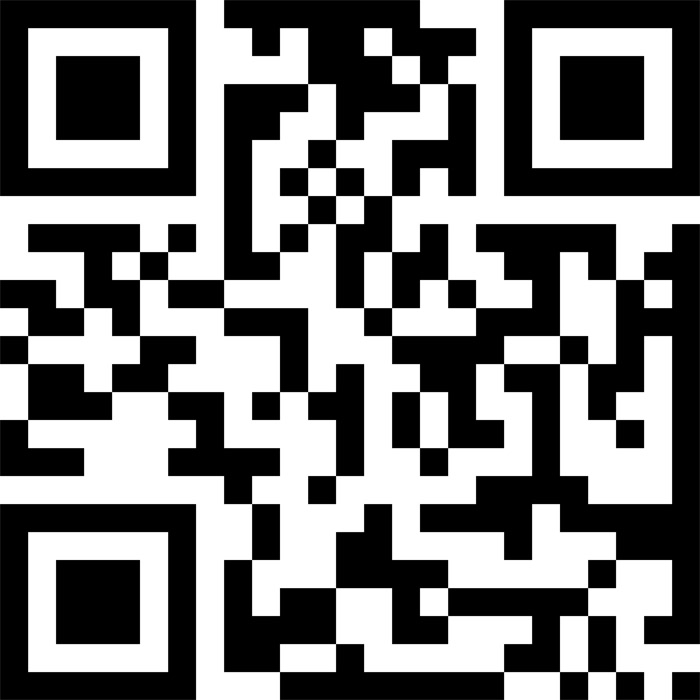
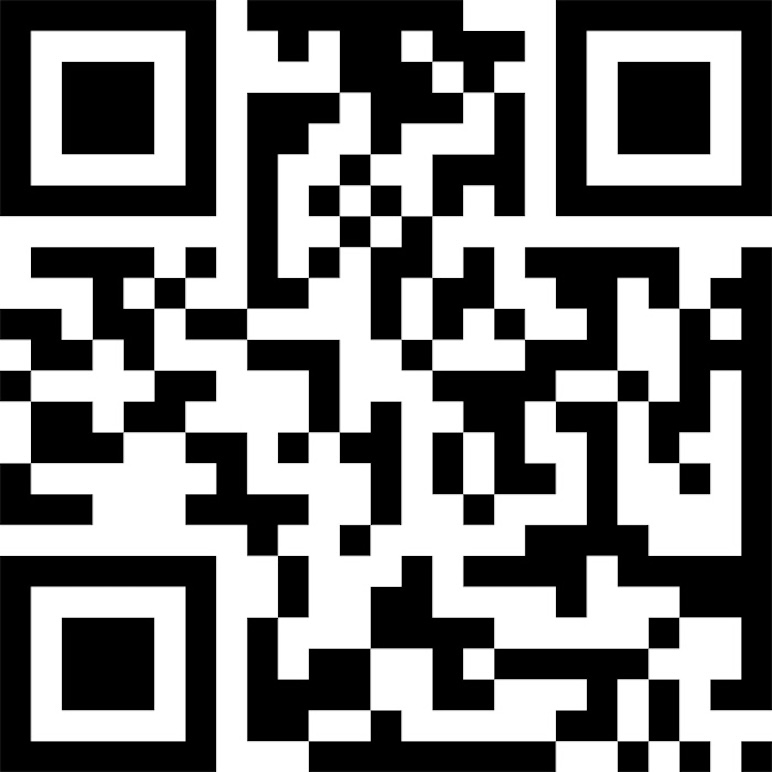
コミット名

diff --git a/index.html b/index.html
@@ -13,16 +13,16 @@
 
 <script src="https://code.jquery.com/jquery-3.5.1.min.js" integrity="sha256-9/aliU8dGd2tb6OSsuzixeV4y/faTqgFtohetphbbj0=" crossorigin="anonymous"></script>
 
-<title>MERAY（ミレイ）セレクタブルビューティーブランドindex</title>
+<title>SKIN CARE</title>
 </head>
   <body>
 <div class="aside-logo">
-  <img src="https://system.meray.tokyo/images/common/logo.svg" alt="MERAY">
+  <img src="https://system.meray.tokyo/images/common/logo.svg" alt="SKIN CARE">
 </div>
 <div class="aside-qrcode">
   <div class="">
-    <img src="https://system.meray.tokyo/images/common/qrcode.png" alt="QRコード">
-    <p>MERAYのWEBサイトは<br>スマートフォンでの利用を推奨しています。</p>
+    <img src="assets/images/publicdomainq-0004311kvg.jpeg" alt="QRコード">
+    <p>SKIN CAREのWEBサイトは<br>スマートフォンでの利用を推奨しています。</p>
   </div>
 </div>
   <div class="wrapper">
@@ -111,7 +111,7 @@
 </div>
     <header class="themes-header">
       <a href="/" class="logo-original themes-logo-icon">
-        <img src="https://system.meray.tokyo/images/common/logo.svg" alt="" class="">
+        <img src="assets/images/sukincare-bu08.png" alt="" class="">
       </a>
       <div class="wrap-themes-icon-right">
         <a href="/account" class="logo-original themes-mypage-icon">
@@ -157,8 +157,8 @@
 <div id="top-loading"></div>
 <article class="index is-first">
   <div class="index-mainvisual js-scroll-trigger">
-    <div class="mainvisual-image"><img src="https://system.meray.tokyo/images/index/mainvisual.webp" alt="" width="1500" height="1900" loading="lazy"></div>
-    <div class="mainvisual-title"><img src="https://system.meray.tokyo/images/index/title.svg" alt="MERAY" loading="lazy"></div>
+    <div class="mainvisual-image"><img src="assets/images/viktor-hesse-E9Y2EQLu8fI-unsplash.jpg" alt="" width="1500" height="1900" loading="lazy"></div>
+    <div class="mainvisual-title"><img src="assets/images/sukincare-bu08.png" alt="MERAY" loading="lazy"></div>
   </div>
   <div class="about-concept-catch is-bold js-scroll-trigger">
     <div class="catch-item anim-slide-in">
@@ -181,7 +181,7 @@
     <div class="section-body">
       <div class="product-item product-item-large product-recommended js-scroll-trigger animate-fade-in">
         <a href="/pages/product-select">
-          <div class="item-thumbnail"><img src="https://system.meray.tokyo/images/index/products_selectablekit.webp" alt="" loading="lazy"></div>
+          <div class="item-thumbnail"><img src="assets/images/pmv-chamara-OXYOFT9gTOE-unsplash.jpg" alt="" loading="lazy"></div>
           <div class="item-caption">
             <div class="caption-en">Selectable Kit / Cleansing</div>
             <div class="caption-ja">セレクタブルキット / クレンジング</div>
@@ -191,7 +191,7 @@
       <div class="product-items">
         <div class="product-item js-scroll-trigger animate-fade-in">
           <a href="/pages/product-oil">
-            <div class="item-thumbnail"><img src="https://system.meray.tokyo/images/index/products_oil.webp" alt="" loading="lazy"></div>
+            <div class="item-thumbnail"><img src="assets/images/viva-luna-studios-KiQt6CC0BvY-unsplash.jpg" alt="" loading="lazy"></div>
             <div class="item-caption">
               <div class="caption-en">Moist Cleansing Oil</div>
               <div class="caption-ja">モイスト クレンジング オイル</div>
@@ -200,7 +200,7 @@
         </div>
         <div class="product-item js-scroll-trigger animate-fade-in">
           <a href="/pages/product-butter">
-            <div class="item-thumbnail"><img src="https://system.meray.tokyo/images/index/products_butter.webp" alt="" loading="lazy"></div>
+            <div class="item-thumbnail"><img src="assets/images/birgith-roosipuu-7m9mA2qljog-unsplash.jpg" alt="" loading="lazy"></div>
             <div class="item-caption">
               <div class="caption-en">Melting Cleansing Butter</div>
               <div class="caption-ja">メルティング クレンジング バター</div>
@@ -209,7 +209,7 @@
         </div>
         <div class="product-item js-scroll-trigger animate-fade-in">
           <a href="/pages/product-milk">
-            <div class="item-thumbnail"><img src="https://system.meray.tokyo/images/index/products_milk.webp" alt="" loading="lazy"></div>
+            <div class="item-thumbnail"><img src="assets/images/pmv-chamara-sCFL6R7loQk-unsplash.jpg" alt="" loading="lazy"></div>
             <div class="item-caption">
               <div class="caption-en">Rich Cleansing Milk</div>
               <div class="caption-ja">リッチ クレンジング ミルク</div>
@@ -218,7 +218,7 @@
         </div>
         <div class="product-item js-scroll-trigger animate-fade-in">
           <a href="/pages/product-gel">
-            <div class="item-thumbnail"><img src="https://system.meray.tokyo/images/index/products_gel.webp" alt="" loading="lazy"></div>
+            <div class="item-thumbnail"><img src="assets/images/lumin-1mp7rF7_j2I-unsplash.jpg" alt="" loading="lazy"></div>
             <div class="item-caption">
               <div class="caption-en">Clear Cleansing Gel</div>
               <div class="caption-ja">クリア クレンジング ジェル</div>
@@ -230,7 +230,7 @@
   </section>
   <section class="index-selectable">
     <div class="selectable-visual js-scroll-trigger">
-      <div class="visual-image"><img src="https://system.meray.tokyo/images/index/selectable_visual.webp" alt="" width="1500" height="1900" loading="lazy"></div>
+      <div class="visual-image"><img src="assets/images/jeffery-erhunse-Z9lbmEjyYjU-unsplash.jpg" alt="" width="1500" height="1900" loading="lazy"></div>
       <div class="visual-catch"><img src="https://system.meray.tokyo/images/index/selectable_catch.svg" alt="Select your favorite!!" loading="lazy"></div>
     </div>
     <div class="selectable-title is-bold js-scroll-trigger animate-fade-in">４種類から試して選ぶ<br> セレクタブルクレンジング</div>
@@ -252,7 +252,7 @@
       <div class="reading-item">
         <a href="/blogs/journal/journal004">
           <div class="item-thumbnail js-scroll-trigger anim-slide-in">
-            <span><img src="https://system.meray.tokyo/images//journal/journal004_01.webp" data-src="https://system.meray.tokyo/images//journal/journal004_01.webp" alt="" loading="lazy"></span>
+            <span><img src="assets/images/valeriia-miller-_42NKYROG7g-unsplash.jpg" data-src="https://system.meray.tokyo/images//journal/journal004_01.webp" alt="" loading="lazy"></span>
           </div>
           <div class="item-caption">
             <h2 class="caption-title js-scroll-trigger animate-fade-in-up">グッドデザイン賞 受賞
@@ -267,7 +267,7 @@
       <div class="reading-item">
         <a href="/blogs/talks/talks046">
           <div class="item-thumbnail js-scroll-trigger anim-slide-in">
-            <span><img src="https://system.meray.tokyo/images/talks/046/talks-46-img-01.webp" data-src="https://system.meray.tokyo/images/talks/046/talks-46-img-01.webp" alt="" loading="lazy"></span>
+            <span><img src="assets/images/kelsey-curtis-kD9qprR6HBI-unsplash.jpg" data-src="https://system.meray.tokyo/images/talks/046/talks-46-img-01.webp" alt="" loading="lazy"></span>
           </div>
           <div class="item-caption">
             <p class="caption-number js-scroll-trigger animate-fade-in-up">#46</p>
@@ -281,7 +281,7 @@
               <div class="reading-item">
         <a href="/blogs/talks/talks045">
           <div class="item-thumbnail js-scroll-trigger anim-slide-in">
-            <span><img src="https://system.meray.tokyo/images/talks/045/talks-45-img-01.webp" data-src="https://system.meray.tokyo/images/talks/045/talks-45-img-01.webp" alt="" loading="lazy"></span>
+            <span><img src="assets/images/alexander-grey-NeRKgBUUDjM-unsplash.jpg" data-src="https://system.meray.tokyo/images/talks/045/talks-45-img-01.webp" alt="" loading="lazy"></span>
           </div>
           <div class="item-caption">
             <p class="caption-number js-scroll-trigger animate-fade-in-up">#45</p>
@@ -295,7 +295,7 @@
     <div class="reading-item">
         <a href="/blogs/talks/talks044">
           <div class="item-thumbnail js-scroll-trigger anim-slide-in">
-            <span><img src="https://system.meray.tokyo/images/talks/044/talks-44-img-01.webp" data-src="https://system.meray.tokyo/images/talks/044/talks-44-img-01.webp" alt="" loading="lazy"></span>
+            <span><img src="assets/images/enecta-cannabis-extracts-80wCkpt-IKE-unsplash.jpg" data-src="https://system.meray.tokyo/images/talks/044/talks-44-img-01.webp" alt="" loading="lazy"></span>
           </div>
           <div class="item-caption">
             <p class="caption-number js-scroll-trigger animate-fade-in-up">#44</p>
@@ -323,13 +323,13 @@
       </li>
       <li class="news-item js-scroll-trigger animate-fade-in">
         <a href="/blogs/news/2022-11-01">
-          <span class="item-subject">MERAY正式版ローンチのお知らせ</span>
+          <span class="item-subject">SKIN CARE正式版ローンチのお知らせ</span>
           <span class="item-date">2022.11.01</span>
         </a>
       </li>
             <li class="news-item js-scroll-trigger animate-fade-in">
         <a href="/blogs/news/2022-05-26">
-          <span class="item-subject">MERAYベータ版ローンチのお知らせ</span>
+          <span class="item-subject">SKIN CAREベータ版ローンチのお知らせ</span>
           <span class="item-date">2022.05.26</span>
         </a>
       </li>
@@ -367,7 +367,7 @@
           <a href="/pages/privacy" class="link-items">PRIVACY POLICY</a>
           <a href="/pages/law" class="link-items law">特定商取引法に基づく表記</a>
         </div>
-        <p class="text-copyright">Copyright Meray. All Rights Reserved.</p>
+        <p class="text-copyright">Copyright Skin care. All Rights Reserved.</p>
       </div>
     </footer>
   </div>

diff --git a/jquery.js b/jquery.js
@@ -1,0 +1,84 @@
+(function($){
+	$.fn.shuffleLetters = function(prop){
+		var options = $.extend({
+			"step"		: 5,
+			"fps"		: 24,
+			"text"		: "",
+			"callback"	: function(){}
+		},prop)
+		return this.each(function(){
+			var el = $(this),
+				str = "";
+			if(el.data('animated')){
+				return true;
+			}
+			el.data('animated',true);
+
+			if(options.text) {
+				str = options.text.split('');
+			}
+			else {
+				str = el.text().split('');
+			}
+
+			var types = [],
+				letters = [];
+			for(var i=0;i<str.length;i++){
+				var ch = str[i];
+				if(ch == " "){
+					types[i] = "space";
+					continue;
+				}
+				else if(/[a-z]/.test(ch)){
+					types[i] = "lowerLetter";
+				}
+				else if(/[A-Z]/.test(ch)){
+					types[i] = "upperLetter";
+				}
+				else {
+					types[i] = "symbol";
+				}
+				letters.push(i);
+			}
+			el.html("");
+
+			(function shuffle(start){
+				var i,
+					len = letters.length,
+					strCopy = str.slice(0);
+				if(start>len){
+					el.data('animated',false);
+					options.callback(el);
+					return;
+				}
+				for(i=Math.max(start,0); i < len; i++){
+					if( i < start+options.step){
+						strCopy[letters[i]] = randomChar(types[letters[i]]);
+					}
+					else {
+						strCopy[letters[i]] = "";
+					}
+				}
+				el.text(strCopy.join(""));
+				setTimeout(function(){
+					shuffle(start+1);
+				},1000/options.fps);
+			})(-options.step);
+		});
+	};
+
+	function randomChar(type){
+		var pool = "";
+		if (type == "lowerLetter"){
+			pool = "abcdefghijklmnopqrstuvwxyz0123456789";
+		}
+		else if (type == "upperLetter"){
+			pool = "ABCDEFGHIJKLMNOPQRSTUVWXYZ0123456789";
+		}
+		else if (type == "symbol"){
+			pool = ",.?/\\(^)![]{}*&^%$#'\"";
+		}
+		var arr = pool.split('');
+		return arr[Math.floor(Math.random()*arr.length)];
+	}
+})(jQuery);
